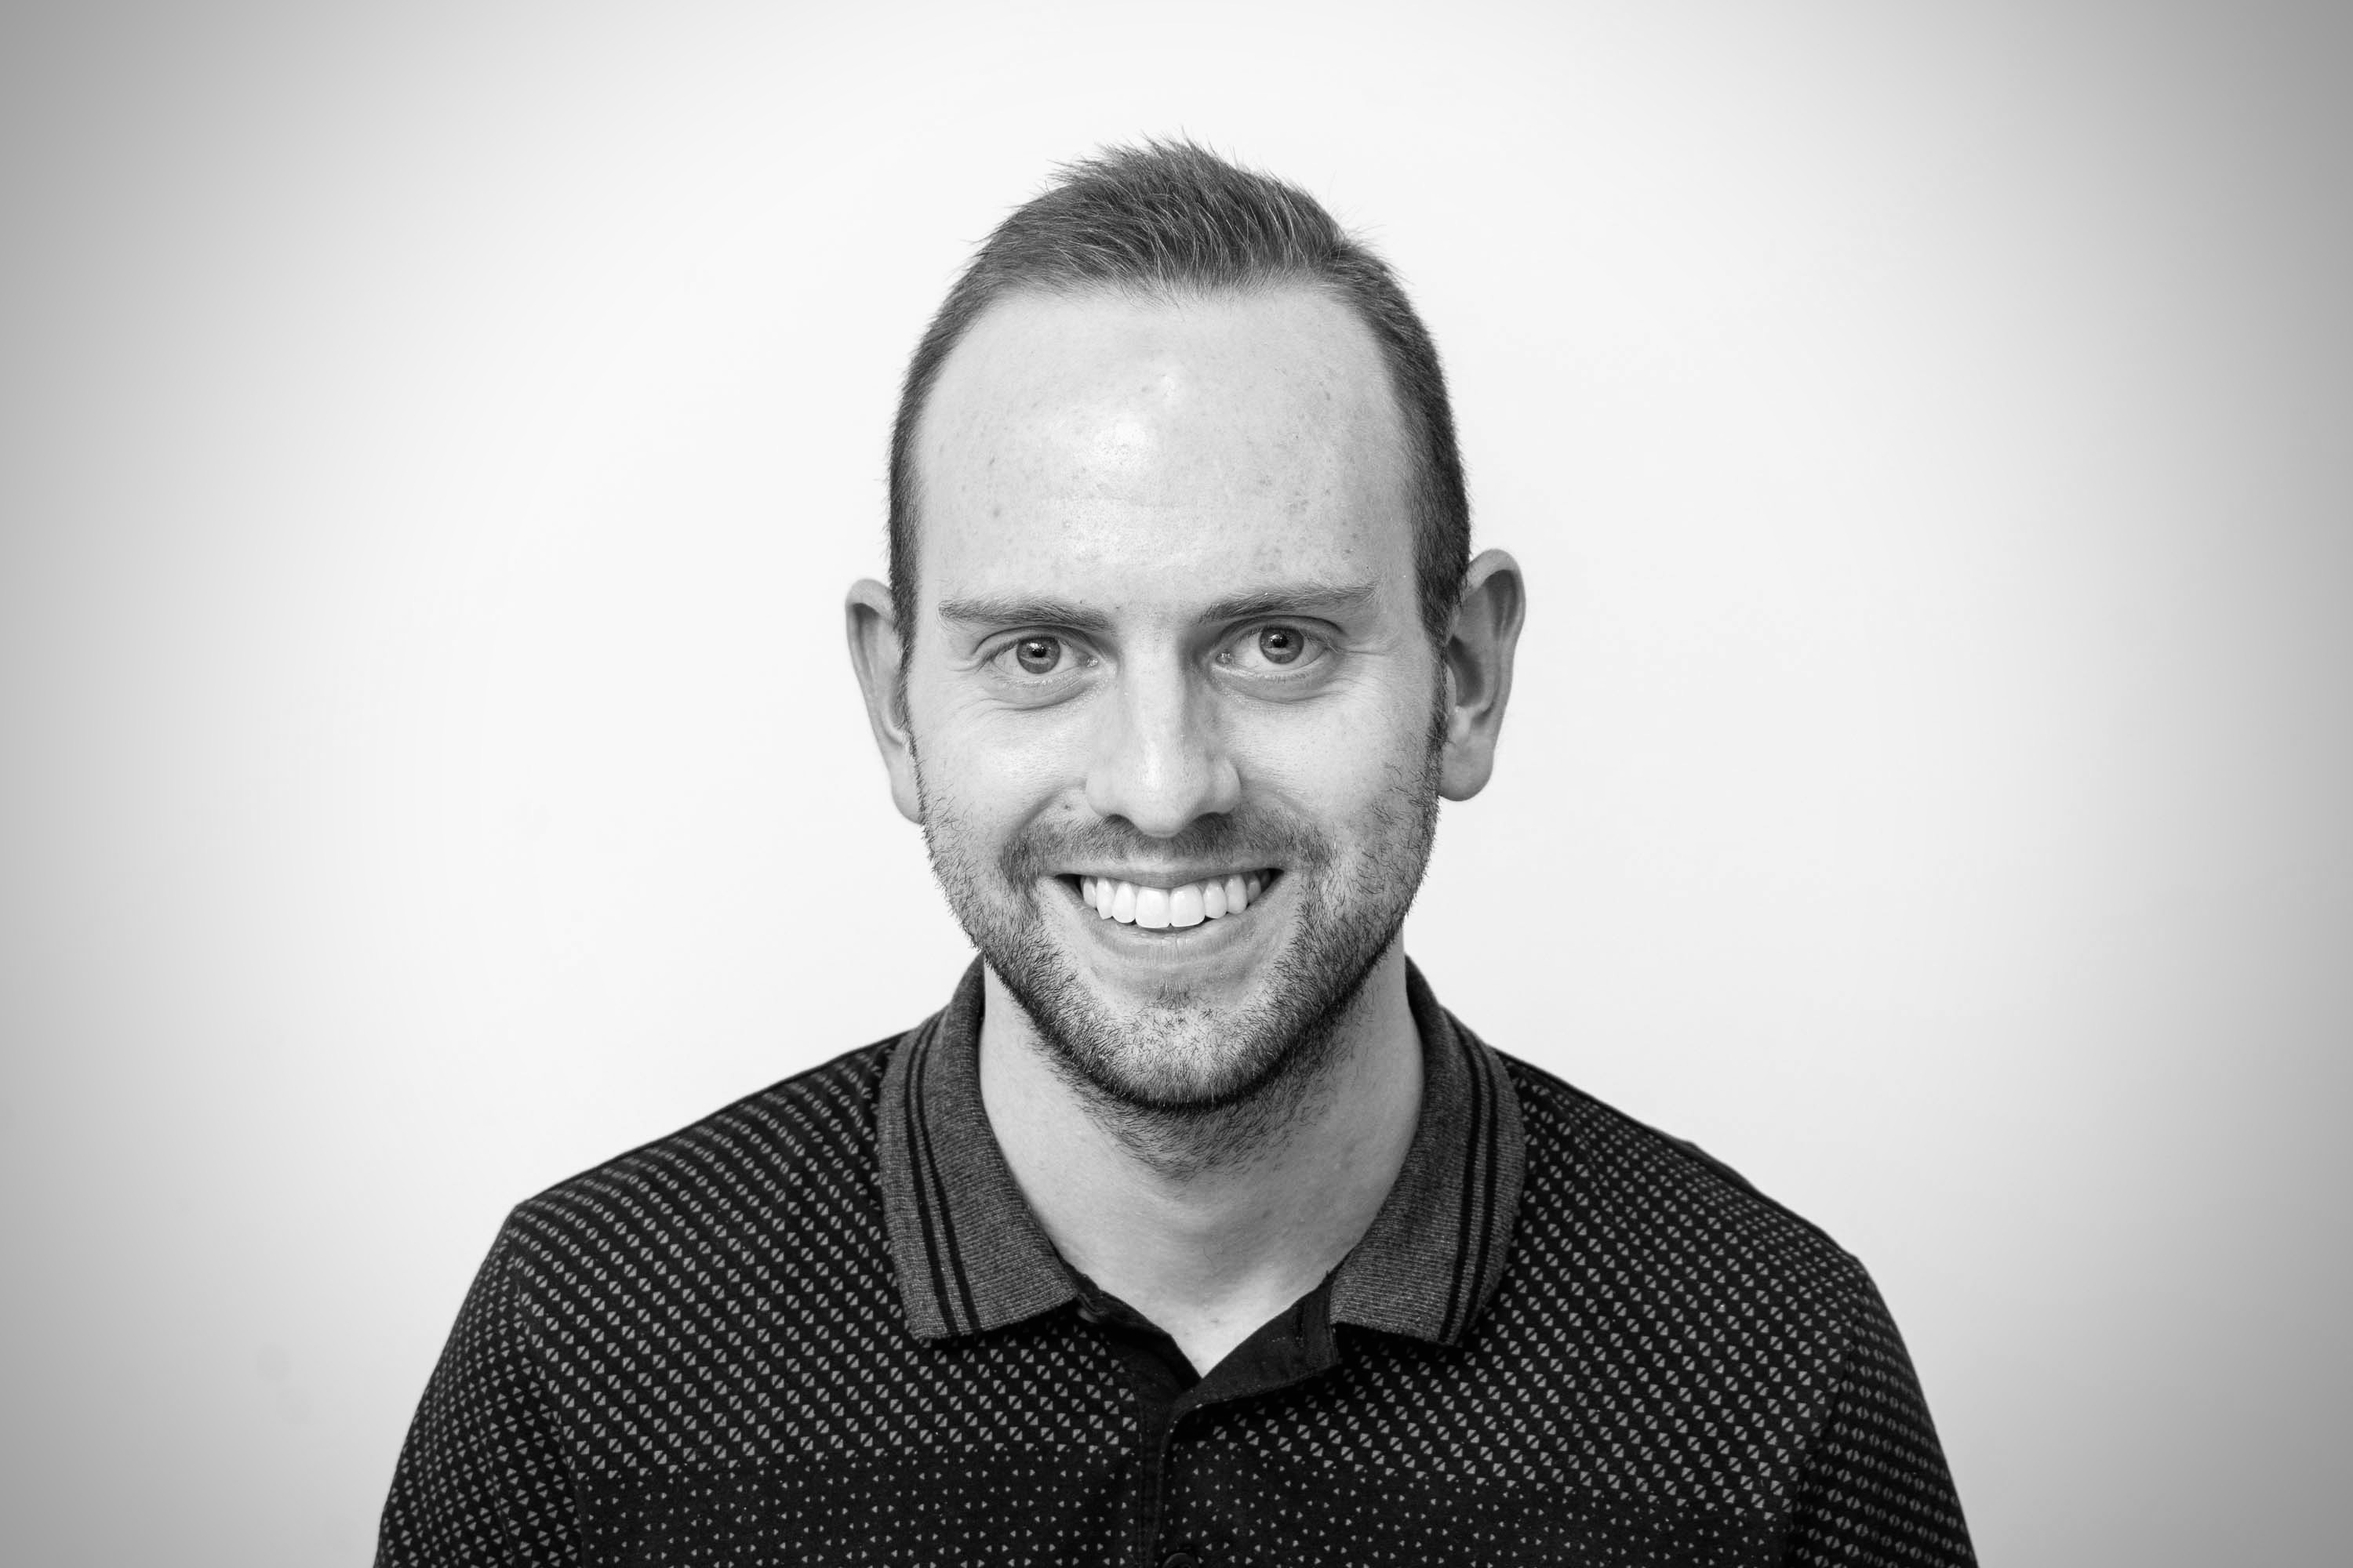
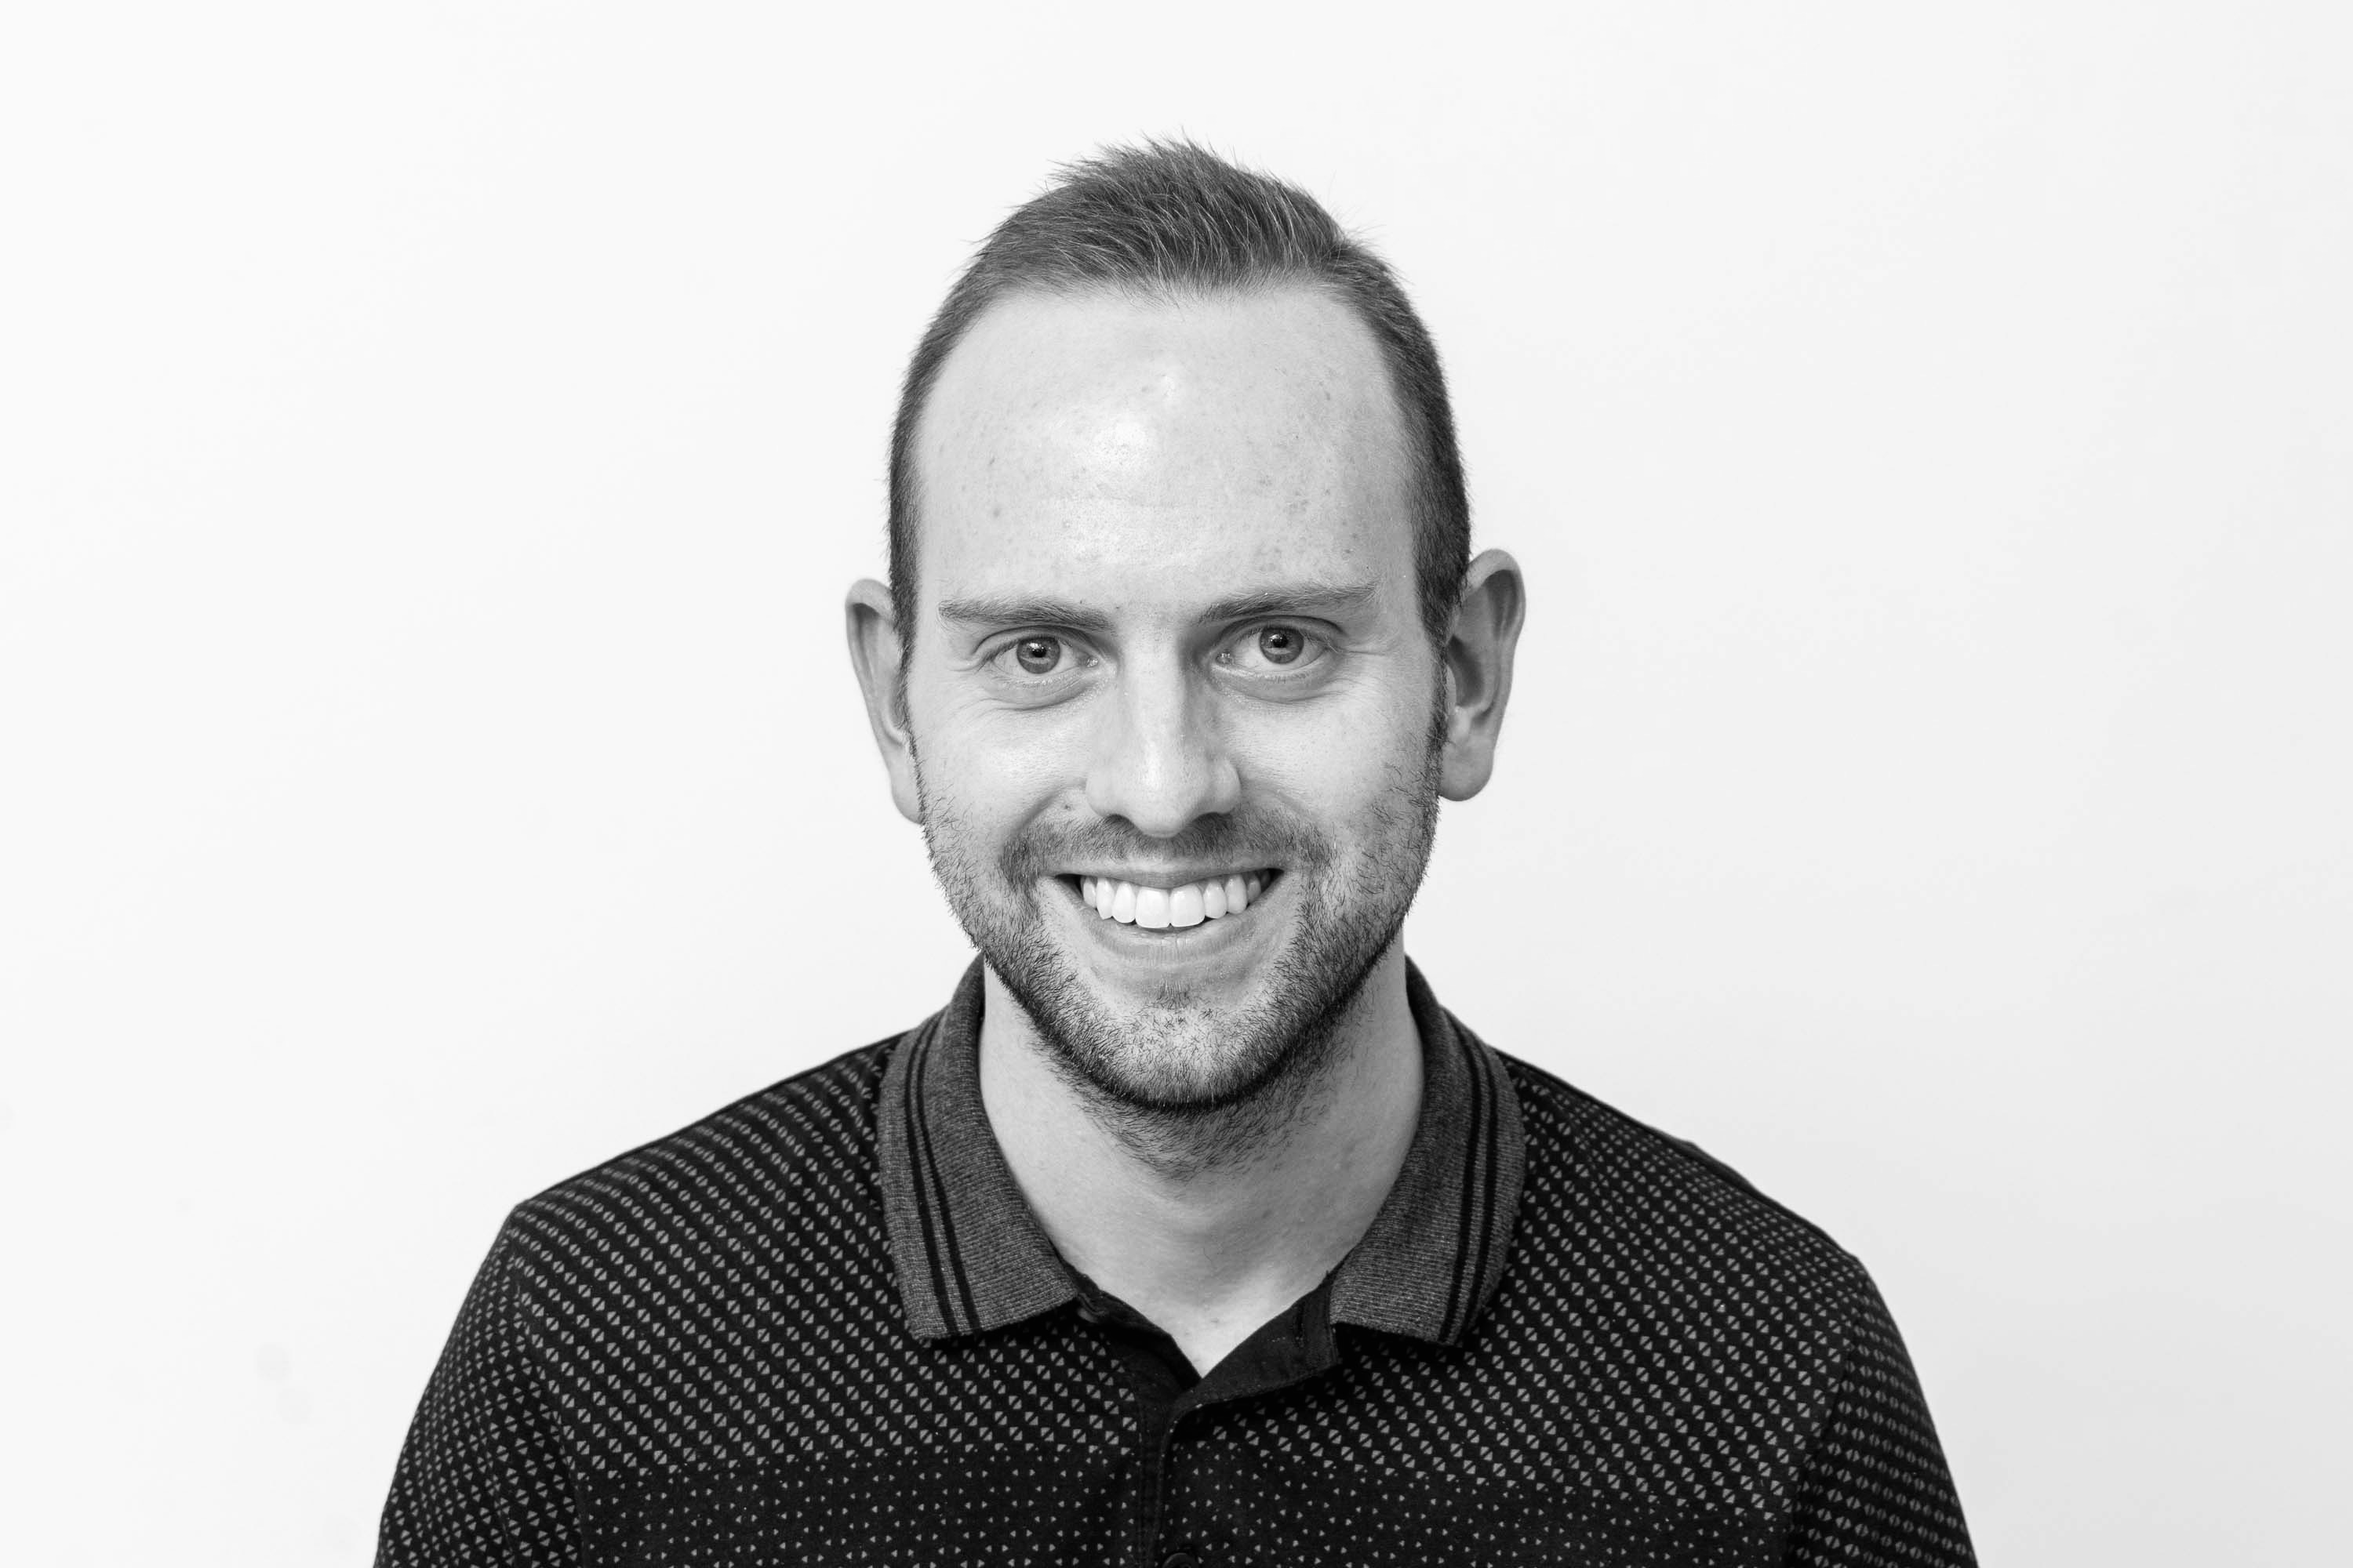
adds class to only show portrait on home view

Changed region(s): [[0.744, 0.0, 1.0, 1.0], [0.0, 0.0, 0.248, 1.0]]

diff --git a/src/app/dashboard/dashboard.component.ts b/src/app/dashboard/dashboard.component.ts
@@ -1,4 +1,5 @@
 import { Component, OnInit } from '@angular/core';
+import { Router } from '@angular/router';
 
 @Component({
   selector: 'app-dashboard',
@@ -7,7 +8,17 @@ import { Component, OnInit } from '@angular/core';
 })
 export class DashboardComponent implements OnInit {
 
-  constructor() { }
+  onHomeView: boolean = false;
+
+  constructor(private router: Router) {
+    this.router.events.subscribe((val) => {
+      if (this.router.url === '/dashboard/home') {
+        this.onHomeView = true;
+      } else {
+        this.onHomeView = false;
+      }
+    });
+  }
 
   ngOnInit(): void {
   }

diff --git a/src/app/dashboard/dashboard.component.scss b/src/app/dashboard/dashboard.component.scss
@@ -1,5 +1,5 @@
 .content-pain {
-    height: calc(100vh - 148px);
+    height: calc(100vh - 130px);
 }
 
 .footer-container {
@@ -10,4 +10,6 @@
 .content-container{
     background: url(../../assets/images/portrait.jpg);
     background-position: 0% 50%;
+    background-color: #F9F9F9;
+    background-repeat: no-repeat, no-repeat, repeat-x;
 }

diff --git a/src/app/dashboard/dashboard.component.html b/src/app/dashboard/dashboard.component.html
@@ -1,7 +1,7 @@
 <div>
     <app-tabnav></app-tabnav>
 
-    <div class="content-container">
+    <div [ngClass]="{'content-container': onHomeView}">
         <div class="content-pain">
             <router-outlet></router-outlet>
         </div>
